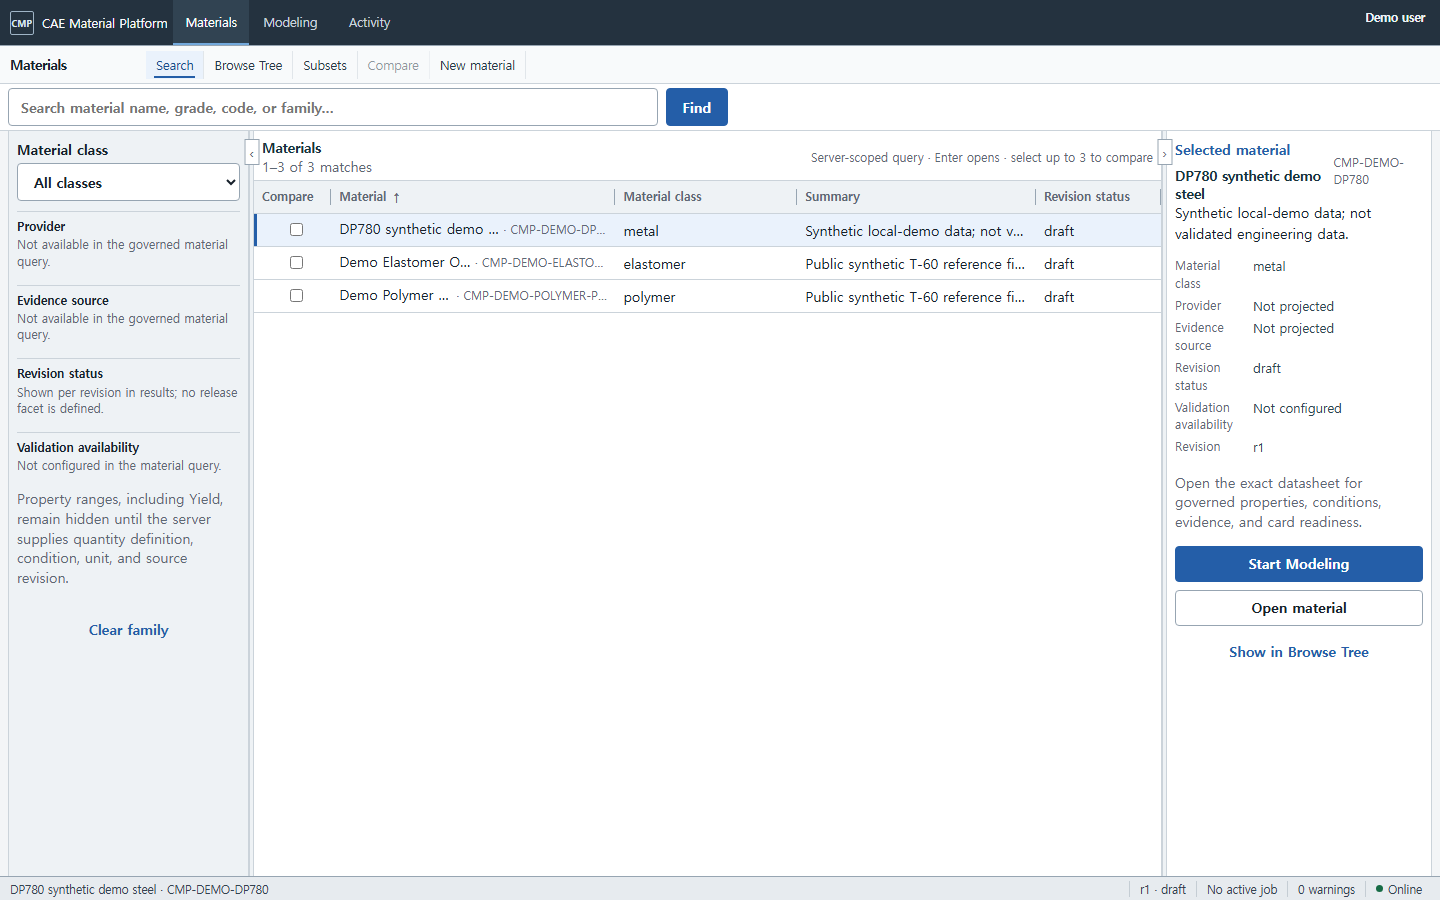
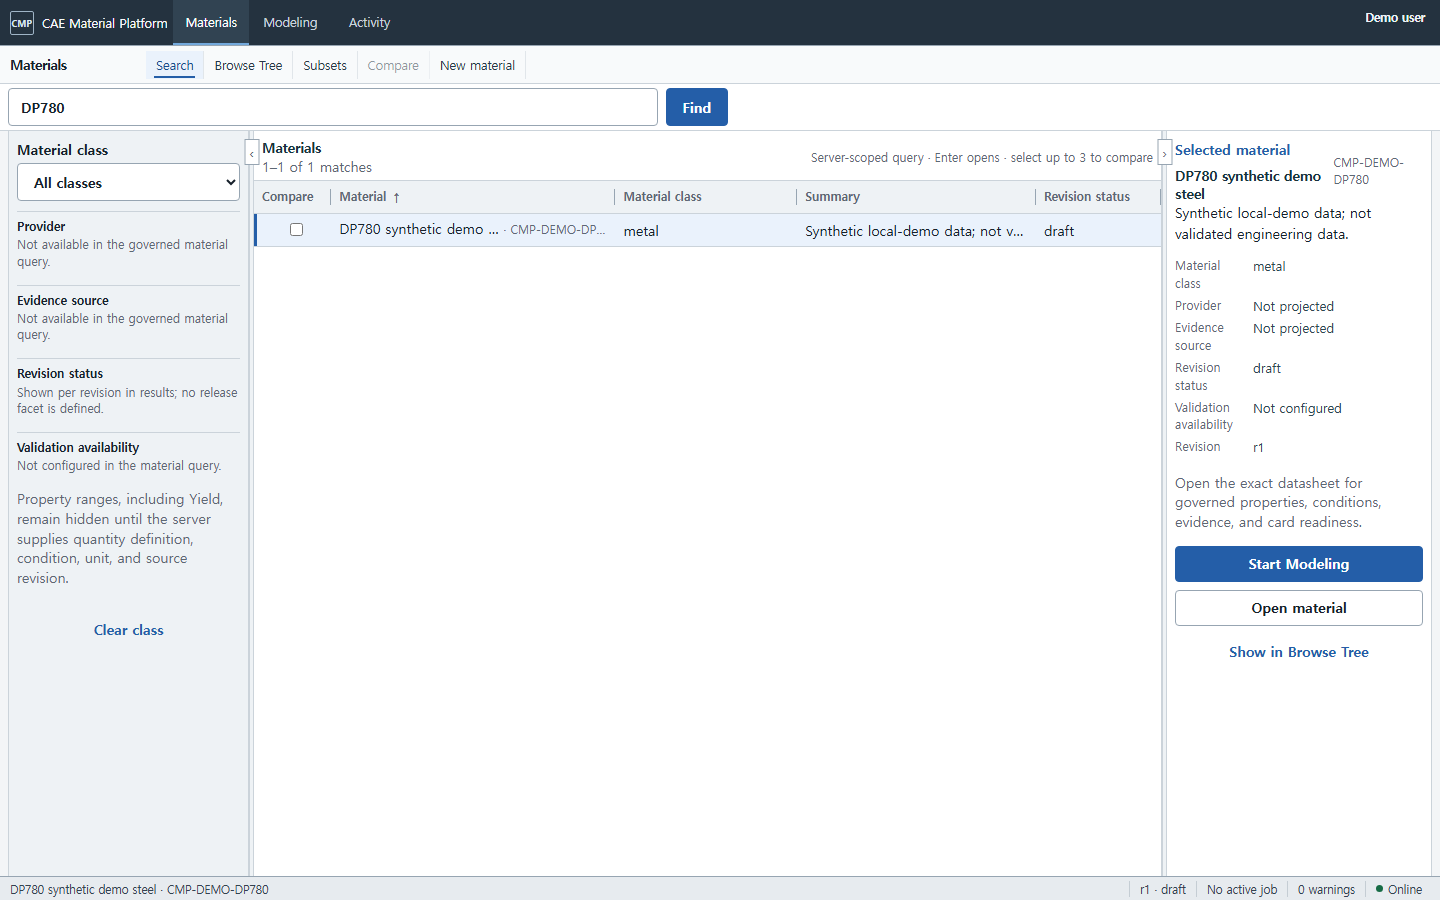
docs(materials): record exact UXC-01 viewport evidence

diff --git a/tests/contracts/test_user_guide.py b/tests/contracts/test_user_guide.py
@@ -61,7 +61,7 @@ def test_current_manifest_does_not_claim_pending_dui_acceptance() -> None:
     assert {
         provenance["source_commit"]
         for provenance in manifest["capture_provenance"]
-    } == {"117551a", "d16d925", "ff8bb1e", "worktree-on-b816eac"}
+    } == {"117551a", "d16d925", "ff8bb1e", "a486644"}
 
     activity = captures["activity-1440"]
     assert activity["workflow"] == "recent-browser-local-solver-card-delivery"

diff --git a/docs/user-guide/18-search-first-materials.md b/docs/user-guide/18-search-first-materials.md
@@ -193,6 +193,10 @@ Modeling capture는 Export route의 exact-lineage resolution이 30초 안에 set
 atomic helper가 이를 보존했습니다. Capture별 source/time/command는
 [`screenshot manifest`](screenshot-manifest.yaml)에 기록하며, 이는 SHA만 바꿔 통과시킨 것이 아니라
 후속 UXC corrective work에서 해결할 live-state blocker입니다.
+
+UXC-01 Materials Search 이미지는 web과 API를 같은 코드 커밋 `a486644`로 재빌드한 뒤
+1366×768, 1440×900, 1920×1080에서 다시 캡처했습니다. 세 viewport 모두 horizontal overflow가
+0이었고, Material class facet, server total, Summary와 Revision status의 분리된 의미를 확인했습니다.
 캡처는 fixture를 변경하지 않으므로 생성 명령을 실행한 결과가 아니라 각 단계의 현재 조작면을
 보여 줍니다. 실제 생성 완료 흐름과 identity/revision 고정은 DUI-06 evidence report에 기록합니다.
 
